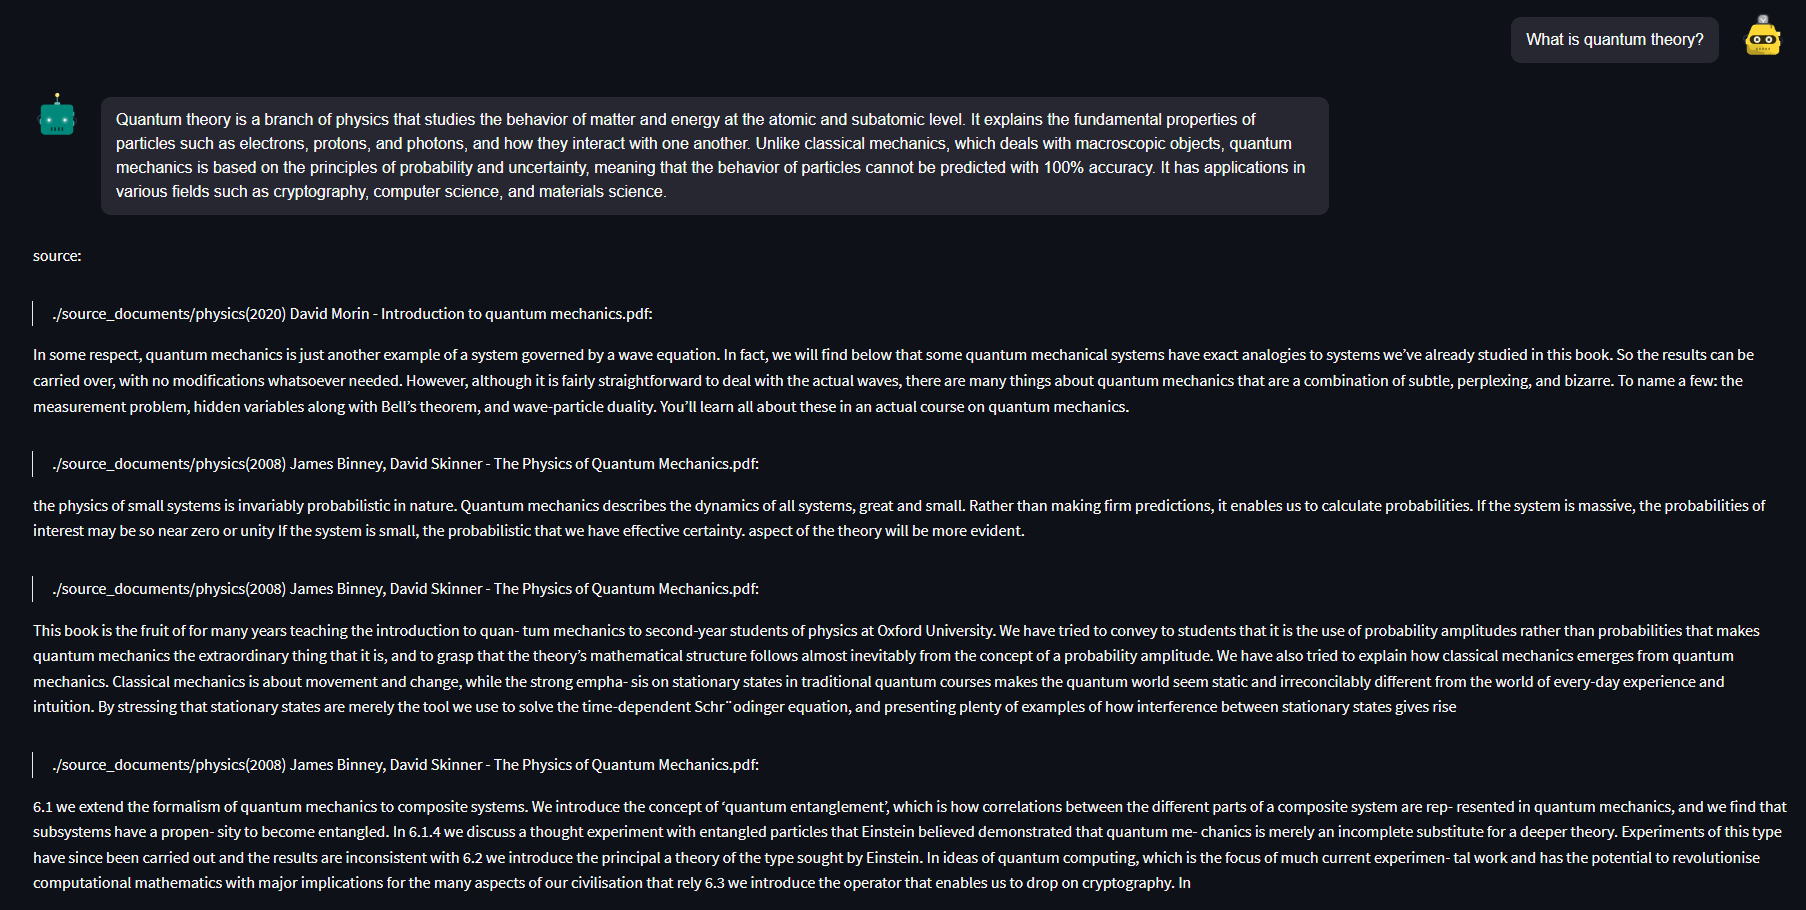
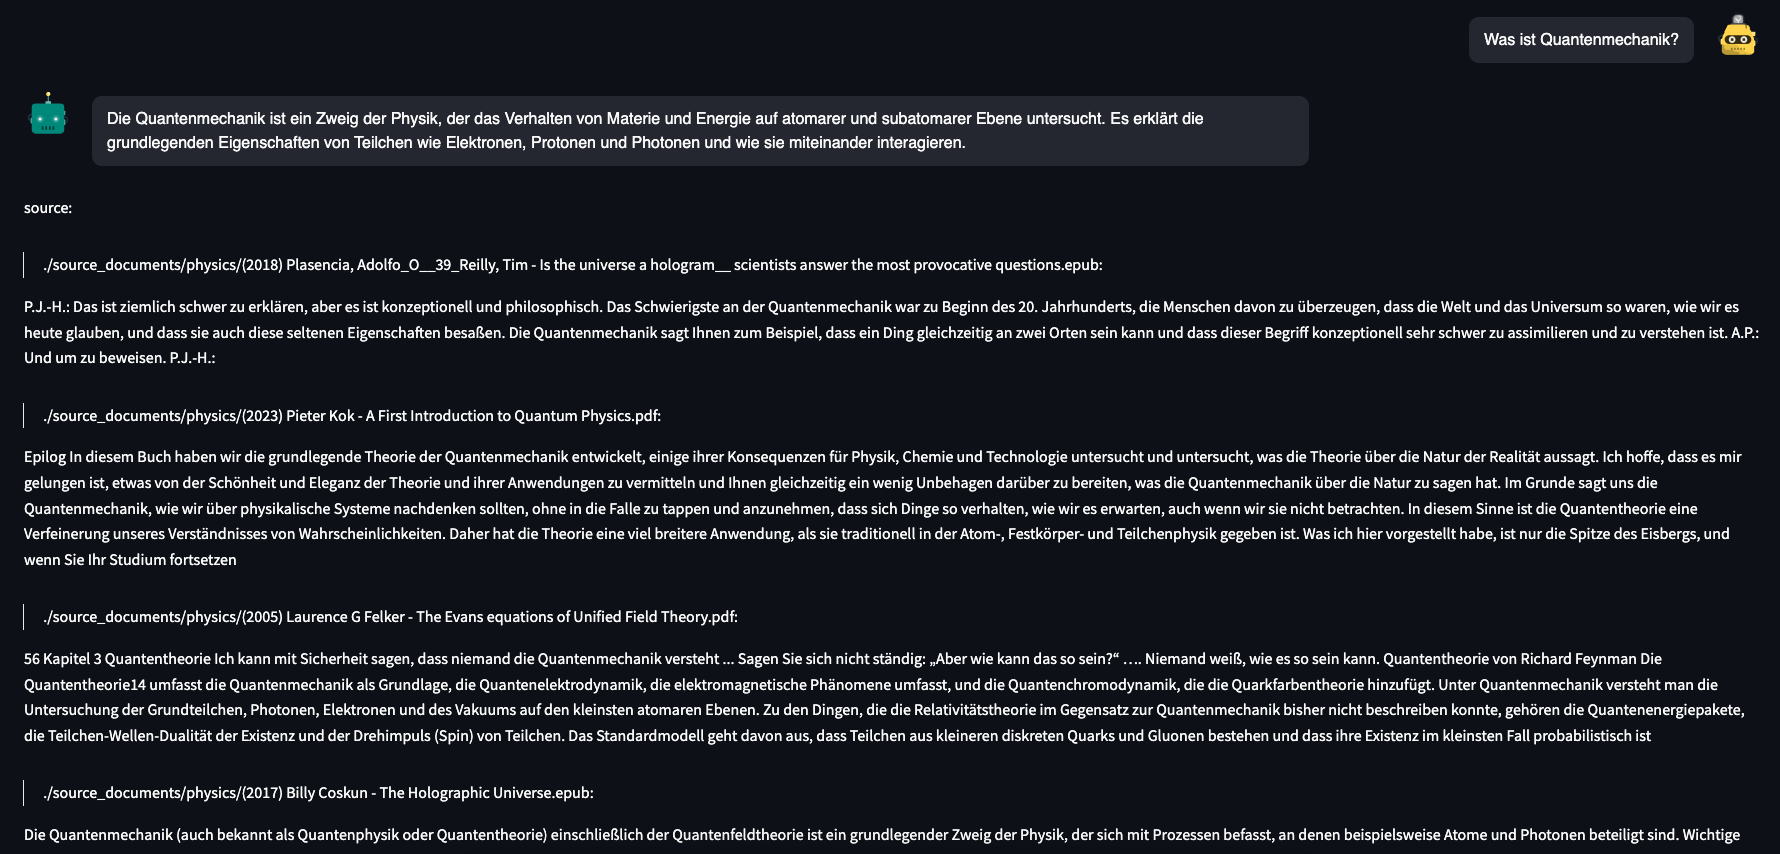
UI / API - support for translation to multiple languages

diff --git a/README.md b/README.md
@@ -272,6 +272,9 @@ UI supports specifying `database` and `collection` in the database where the que
 |--------------------------------------------------------------------------------|
 
 ![API](img/web_ui_asked_question.png)
+
+And the answer section:
+
 ![API](img/web_ui_question_answered.png)
 
 # OS Setup
